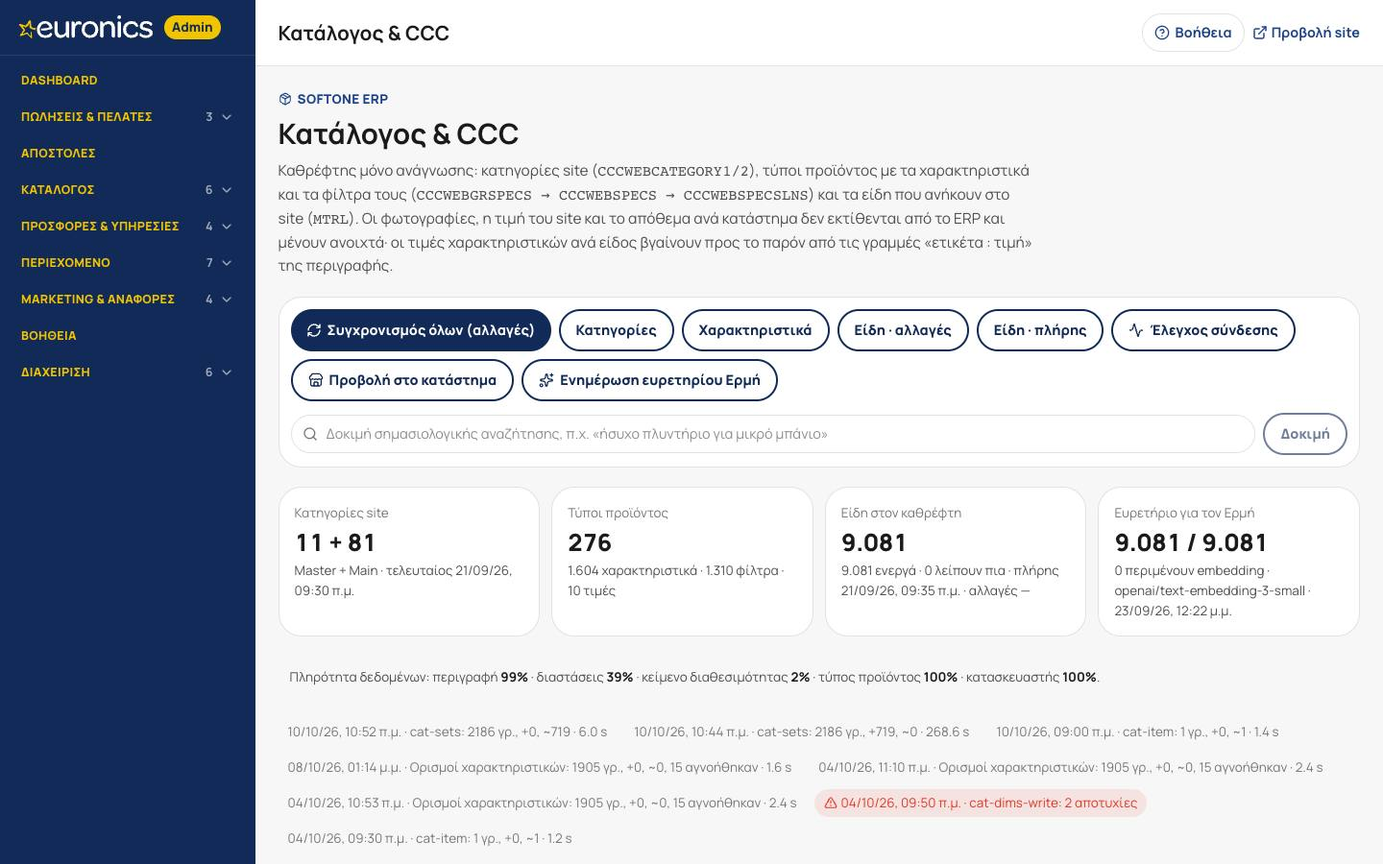
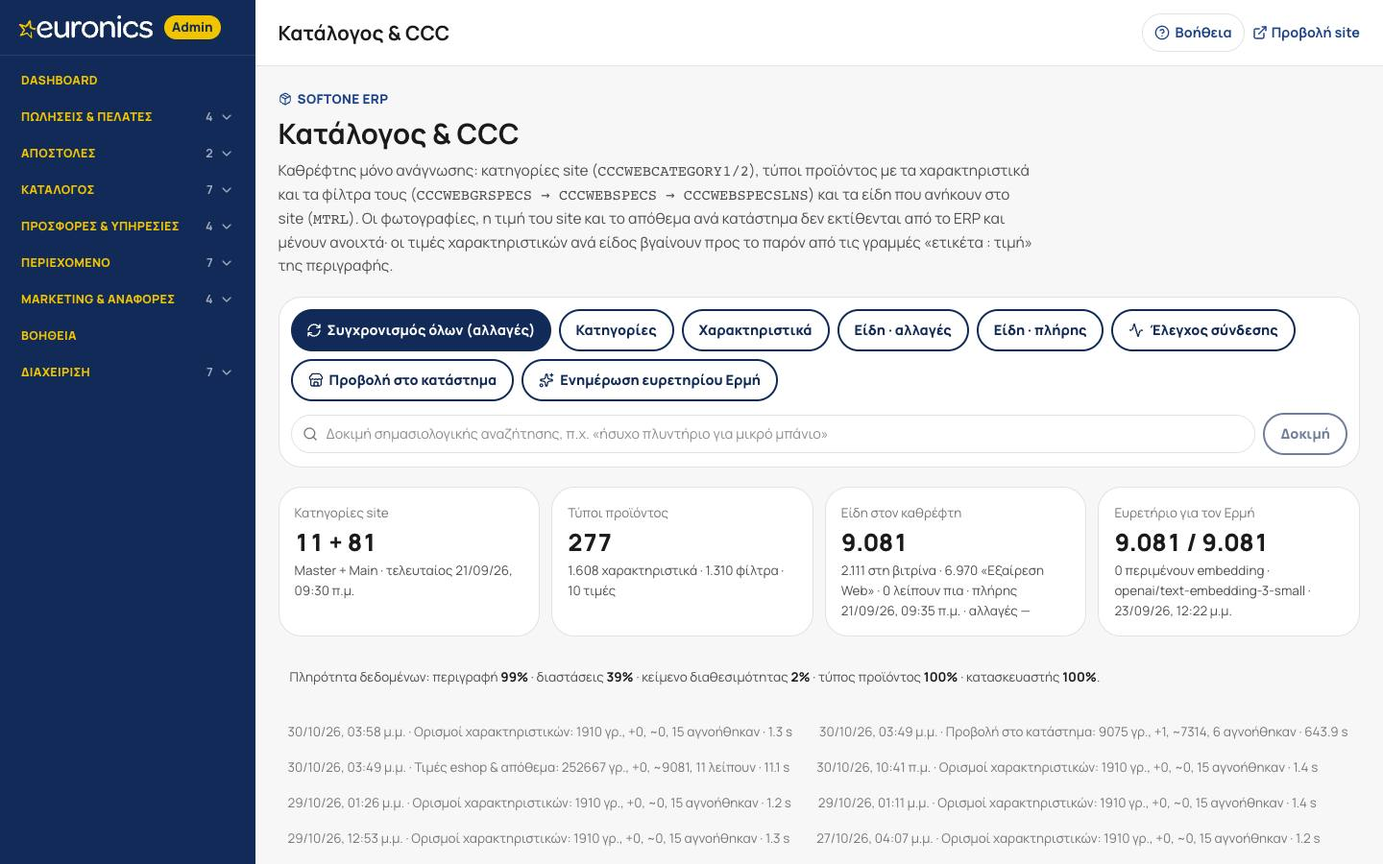
Κατάλογος: στη βιτρίνα μόνο τα είδη χωρίς «Εξαίρεση Web»
Το SoftOne σημαδεύει με MTREXTRA.BOOL04 («Εξαίρεση Web») τα είδη που δεν
ανεβαίνουν στο site. Ο καθρέφτης το αγνοούσε, οπότε το κατάστημα έδειχνε
9.081 είδη εκεί που το euronics.gr έχει ~2.100.

Η σημαία διαβάζεται τώρα στον συγχρονισμό (S1Item.webExcluded) και η
προβολή δίνει active μόνο σε ενεργό, υπαρκτό και μη εξαιρεμένο είδος.
Τίποτα δεν διαγράφεται: 6.970 προϊόντα έγιναν ανενεργά και επανέρχονται
μόνα τους αν βγει η εξαίρεση στο ERP.

diff --git a/lib/softone/catalog.ts b/lib/softone/catalog.ts
@@ -3,6 +3,7 @@ import { createHash } from "node:crypto";
 import { db } from "@/lib/db";
 import { s1 } from "@/lib/softone";
 import { getTable, friendlyError } from "@/lib/softone/lookups";
+import { EXTRA_OFFER_COLS, EXTRA_OFFER_FILTER, offersFromExtra } from "@/lib/softone/offers-core";
 
 /**
  * Συγχρονισμός καταλόγου SoftOne → καθρέφτης (S1WebCategory, S1SpecGroup,
@@ -220,14 +221,14 @@ export function syncItem(mtrl: number, trigger: Trigger = "manual") {
     const data = { ...m, specGroupS1Id: groupOk ? m.specGroupS1Id : null, missing: false, syncedAt: new Date() };
     const year = new Date().getFullYear();
     const [extra, bal] = await Promise.all([
-      getTable("MTREXTRA", ["MTRL", "NUM04", "DATE01", "BOOL01", "BOOL02"], `MTRL=${mtrl}`),
+      getTable("MTREXTRA", [...EXTRA_OFFER_COLS], `MTRL=${mtrl}`),
       getTable("MTRBALSHEET", ["MTRL", "WHOUSE", "IMPQTY1", "EXPQTY1"], `FISCPRD=${year} AND MTRL=${mtrl}`),
     ]);
     const e = extra.find((r) => int(r[0]) === mtrl);
     const w: Record<string, number> = {};
     for (const r of bal) if (int(r[0]) === mtrl) w[r[1]] = (w[r[1]] ?? 0) + (num(r[2]) ?? 0) - (num(r[3]) ?? 0);
     const offers = {
-      eshopPrice: e ? posNum(e[1]) : null, eshopDate01: e ? date(e[2]) : null, eshopFlag1: e ? yes(e[3]) : false, eshopFlag2: e ? yes(e[4]) : false,
+      ...offersFromExtra(e),
       stockCentral: CENTRAL_WAREHOUSES.reduce((a, k) => a + Math.max(0, w[k] ?? 0), 0),
       stockByWh: Object.fromEntries(Object.entries(w).filter(([, v]) => v > 0).map(([k, v]) => [k, Math.round(v * 100) / 100])),
       offersAt: new Date(),
@@ -256,9 +257,9 @@ export function syncOffers(trigger: Trigger = "manual") {
     const ids = (await db.s1Item.findMany({ where: { missing: false }, orderBy: { mtrl: "asc" }, select: { mtrl: true } })).map((i) => i.mtrl);
     if (!ids.length) return { fetched: 0, created: 0, updated: 0, missing: 0, skipped: 0 };
     const site = new Set(ids);
-    const extra = await getTable("MTREXTRA", ["MTRL", "NUM04", "DATE01", "BOOL01", "BOOL02"], "NUM04>0 OR BOOL01=1 OR BOOL02=1");
-    const price = new Map<number, { p: number | null; d: Date | null; f1: boolean; f2: boolean }>();
-    for (const r of extra) { const m = int(r[0]); if (m != null && site.has(m)) price.set(m, { p: posNum(r[1]), d: date(r[2]), f1: yes(r[3]), f2: yes(r[4]) }); }
+    const extra = await getTable("MTREXTRA", [...EXTRA_OFFER_COLS], EXTRA_OFFER_FILTER);
+    const marks = new Map<number, ReturnType<typeof offersFromExtra>>();
+    for (const r of extra) { const m = int(r[0]); if (m != null && site.has(m)) marks.set(m, offersFromExtra(r)); }
 
     const year = new Date().getFullYear();
     const bal = new Map<number, Record<string, number>>();
@@ -275,18 +276,18 @@ export function syncOffers(trigger: Trigger = "manual") {
     let updated = 0;
     for (let i = 0; i < ids.length; i += 1000) {
       const part = ids.slice(i, i + 1000);
-      const values = part.map((_, k) => `($${k * 7 + 1}::int, $${k * 7 + 2}::float8, $${k * 7 + 3}::timestamp, $${k * 7 + 4}::boolean, $${k * 7 + 5}::boolean, $${k * 7 + 6}::float8, $${k * 7 + 7}::jsonb)`).join(", ");
+      const values = part.map((_, k) => `($${k * 8 + 1}::int, $${k * 8 + 2}::float8, $${k * 8 + 3}::timestamp, $${k * 8 + 4}::boolean, $${k * 8 + 5}::boolean, $${k * 8 + 6}::boolean, $${k * 8 + 7}::float8, $${k * 8 + 8}::jsonb)`).join(", ");
       const params = part.flatMap((m) => {
-        const e = price.get(m), w = bal.get(m) ?? {};
+        const o = marks.get(m) ?? offersFromExtra(null), w = bal.get(m) ?? {};
         const positive = Object.fromEntries(Object.entries(w).filter(([, v]) => v > 0).map(([k, v]) => [k, Math.round(v * 100) / 100]));
         const central = CENTRAL_WAREHOUSES.reduce((a, k) => a + Math.max(0, w[k] ?? 0), 0);
-        return [m, e?.p ?? null, e?.d ?? null, e?.f1 ?? false, e?.f2 ?? false, central, JSON.stringify(positive)];
+        return [m, o.eshopPrice, o.eshopDate01, o.eshopFlag1, o.eshopFlag2, o.webExcluded, central, JSON.stringify(positive)];
       });
       updated += await db.$executeRawUnsafe(
-        `UPDATE "S1Item" s SET "eshopPrice" = v.p, "eshopDate01" = v.d, "eshopFlag1" = v.f1, "eshopFlag2" = v.f2, "stockCentral" = v.c, "stockByWh" = v.w, "offersAt" = $${part.length * 7 + 1}::timestamp
-         FROM (VALUES ${values}) AS v(m, p, d, f1, f2, c, w) WHERE s.mtrl = v.m`, ...params, now);
+        `UPDATE "S1Item" s SET "eshopPrice" = v.p, "eshopDate01" = v.d, "eshopFlag1" = v.f1, "eshopFlag2" = v.f2, "webExcluded" = v.x, "stockCentral" = v.c, "stockByWh" = v.w, "offersAt" = $${part.length * 8 + 1}::timestamp
+         FROM (VALUES ${values}) AS v(m, p, d, f1, f2, x, c, w) WHERE s.mtrl = v.m`, ...params, now);
     }
-    return { fetched, created: 0, updated, missing: ids.length - price.size, skipped: 0 };
+    return { fetched, created: 0, updated, missing: ids.length - marks.size, skipped: 0 };
   });
 }
 
@@ -307,13 +308,15 @@ export async function s1Alive(): Promise<{ ok: boolean; error?: string }> {
 }
 
 export async function catalogStats() {
-  const [cat1, cat2, groups, specs, filters, options, items, active, missing, withDesc, withDims, withAvail, withGroup, withBrand, states, runs] = await Promise.all([
+  const [cat1, cat2, groups, specs, filters, options, items, active, missing, excluded, withDesc, withDims, withAvail, withGroup, withBrand, states, runs] = await Promise.all([
     db.s1WebCategory.count({ where: { level: 1, missing: false } }), db.s1WebCategory.count({ where: { level: 2, missing: false } }),
     db.s1SpecGroup.count({ where: { missing: false } }), db.s1SpecDef.count({ where: { missing: false } }), db.s1SpecDef.count({ where: { missing: false, isFilter: true } }), db.s1SpecOption.count({ where: { missing: false } }),
-    db.s1Item.count(), db.s1Item.count({ where: { active: true, missing: false } }), db.s1Item.count({ where: { missing: true } }),
+    db.s1Item.count(), db.s1Item.count({ where: { active: true, missing: false, webExcluded: false } }), db.s1Item.count({ where: { missing: true } }),
+    // «Εξαίρεση Web» (MTREXTRA.BOOL04): είδη του ομίλου που δεν πουλιούνται online — μένουν στον καθρέφτη, έξω από τη βιτρίνα
+    db.s1Item.count({ where: { missing: false, webExcluded: true } }),
     db.s1Item.count({ where: { OR: [{ shortDesc: { not: null } }, { longDesc: { not: null } }] } }), db.s1Item.count({ where: { widthCm: { not: null }, heightCm: { not: null }, lengthCm: { not: null } } }),
     db.s1Item.count({ where: { availText: { not: null } } }), db.s1Item.count({ where: { specGroupS1Id: { not: null } } }), db.s1Item.count({ where: { manufacturerS1Id: { not: null } } }),
     db.s1SyncState.findMany(), db.s1SyncRun.findMany({ where: { kind: { startsWith: "cat-" } }, orderBy: { at: "desc" }, take: 8 }),
   ]);
-  return { cat1, cat2, groups, specs, filters, options, items, active, missing, withDesc, withDims, withAvail, withGroup, withBrand, states, runs };
+  return { cat1, cat2, groups, specs, filters, options, items, active, missing, excluded, withDesc, withDims, withAvail, withGroup, withBrand, states, runs };
 }

diff --git a/app/admin/(shell)/softone/catalog/page.tsx b/app/admin/(shell)/softone/catalog/page.tsx
@@ -25,7 +25,7 @@ export default async function CatalogPage({ searchParams }: { searchParams: Prom
   const page = Math.max(1, Number(p) || 1);
   const where = {
     ...(q ? { OR: [{ code: { contains: q, mode: "insensitive" as const } }, { name: { contains: q, mode: "insensitive" as const } }, { factoryCode: { contains: q, mode: "insensitive" as const } }, { barcode: { contains: q } }] } : {}),
-    ...(f === "nodesc" ? { shortDesc: null, longDesc: null } : f === "nodims" ? { OR: [{ widthCm: null }, { heightCm: null }, { lengthCm: null }] } : f === "nogroup" ? { specGroupS1Id: null } : f === "nobrand" ? { manufacturerS1Id: null } : f === "missing" ? { missing: true } : f === "inactive" ? { active: false } : {}),
+    ...(f === "nodesc" ? { shortDesc: null, longDesc: null } : f === "nodims" ? { OR: [{ widthCm: null }, { heightCm: null }, { lengthCm: null }] } : f === "nogroup" ? { specGroupS1Id: null } : f === "nobrand" ? { manufacturerS1Id: null } : f === "missing" ? { missing: true } : f === "inactive" ? { active: false } : f === "excluded" ? { webExcluded: true } : {}),
   };
   const [stats, vec, shop, tree, coverage, facetTotals, rows, total] = await Promise.all([
     catalogStats(), vectorStats(), projectionStats(),
@@ -58,7 +58,7 @@ export default async function CatalogPage({ searchParams }: { searchParams: Prom
         {[
           { t: "Κατηγορίες site", v: `${stats.cat1} + ${stats.cat2}`, s: `Master + Main · τελευταίος ${fmt(state("webcat")?.lastFullAt)}` },
           { t: "Τύποι προϊόντος", v: stats.groups.toLocaleString("el-GR"), s: `${stats.specs.toLocaleString("el-GR")} χαρακτηριστικά · ${stats.filters.toLocaleString("el-GR")} φίλτρα · ${stats.options.toLocaleString("el-GR")} τιμές` },
-          { t: "Είδη στον καθρέφτη", v: stats.items.toLocaleString("el-GR"), s: `${stats.active.toLocaleString("el-GR")} ενεργά · ${stats.missing.toLocaleString("el-GR")} λείπουν πια · πλήρης ${fmt(state("item")?.lastFullAt)} · αλλαγές ${fmt(state("item")?.lastDeltaAt)}` },
+          { t: "Είδη στον καθρέφτη", v: stats.items.toLocaleString("el-GR"), s: `${stats.active.toLocaleString("el-GR")} στη βιτρίνα · ${stats.excluded.toLocaleString("el-GR")} «Εξαίρεση Web» · ${stats.missing.toLocaleString("el-GR")} λείπουν πια · πλήρης ${fmt(state("item")?.lastFullAt)} · αλλαγές ${fmt(state("item")?.lastDeltaAt)}` },
           { t: "Ευρετήριο για τον Ερμή", v: `${vec.embedded.toLocaleString("el-GR")} / ${vec.total.toLocaleString("el-GR")}`, s: `${vec.stale.toLocaleString("el-GR")} περιμένουν embedding · ${vec.model} · ${fmt(vec.lastAt)}` },
         ].map((c) => (
           <div key={c.t} className="rounded-2xl bg-white border border-eu-line p-4 min-w-0">
@@ -139,7 +139,7 @@ export default async function CatalogPage({ searchParams }: { searchParams: Prom
           <h3 className="m-0 font-heading font-bold text-eu-ink text-[length:var(--fs-18)]">Είδη</h3>
           <form className="flex flex-wrap gap-2">
             <select name="f" defaultValue={f} aria-label="Φίλτρο" className="rounded-full border border-eu-line px-3 min-h-10 text-[length:var(--fs-14)] bg-white">
-              <option value="">Όλα</option><option value="nodesc">Χωρίς περιγραφή</option><option value="nodims">Χωρίς διαστάσεις</option><option value="nogroup">Χωρίς τύπο προϊόντος</option><option value="nobrand">Χωρίς κατασκευαστή</option><option value="inactive">Ανενεργά</option><option value="missing">Λείπουν πια από το SoftOne</option>
+              <option value="">Όλα</option><option value="nodesc">Χωρίς περιγραφή</option><option value="nodims">Χωρίς διαστάσεις</option><option value="nogroup">Χωρίς τύπο προϊόντος</option><option value="nobrand">Χωρίς κατασκευαστή</option><option value="inactive">Ανενεργά</option><option value="excluded">Εξαίρεση Web (εκτός site)</option><option value="missing">Λείπουν πια από το SoftOne</option>
             </select>
             <input name="q" defaultValue={q} placeholder="Κωδικός, όνομα, μοντέλο, barcode…" aria-label="Αναζήτηση" className="rounded-full border border-eu-line px-4 min-h-10 text-[length:var(--fs-14)] min-w-[260px]" />
             <button className="rounded-full bg-eu-navy text-white px-4 min-h-10 font-bold text-[length:var(--fs-14)]">Φίλτρο</button>
@@ -150,9 +150,9 @@ export default async function CatalogPage({ searchParams }: { searchParams: Prom
             <thead className="text-left text-eu-muted text-[length:var(--fs-13)]"><tr><th className="py-2 px-3">Κωδικός</th><th className="py-2 px-3">Είδος</th><th className="py-2 px-3">Τύπος προϊόντος</th><th className="py-2 px-3 text-right">Λιανική</th><th className="py-2 px-3">Διαστάσεις</th><th className="py-2 px-3">Διαθεσιμότητα</th><th className="py-2 px-3">Αλλαγή στο S1</th></tr></thead>
             <tbody>
               {rows.map((r) => (
-                <tr key={r.mtrl} className={`border-t border-eu-line align-top ${r.missing || !r.active ? "opacity-60" : ""}`}>
+                <tr key={r.mtrl} className={`border-t border-eu-line align-top ${r.missing || !r.active || r.webExcluded ? "opacity-60" : ""}`}>
                   <td className="py-2 px-3 font-mono whitespace-nowrap">{r.code}<div className="text-eu-muted text-[length:var(--fs-13)]">MTRL {r.mtrl}</div></td>
-                  <td className="py-2 px-3"><div className="font-bold text-eu-ink">{r.name}</div><div className="text-eu-muted text-[length:var(--fs-13)]">{[r.factoryCode, r.barcode].filter(Boolean).join(" · ") || "—"}{!r.active ? " · ανενεργό" : ""}{r.missing ? " · λείπει πια" : ""}</div></td>
+                  <td className="py-2 px-3"><div className="font-bold text-eu-ink">{r.name}</div><div className="text-eu-muted text-[length:var(--fs-13)]">{[r.factoryCode, r.barcode].filter(Boolean).join(" · ") || "—"}{!r.active ? " · ανενεργό" : ""}{r.webExcluded ? " · εκτός site (Εξαίρεση Web)" : ""}{r.missing ? " · λείπει πια" : ""}</div></td>
                   <td className="py-2 px-3 text-eu-ink-3">{r.specGroup?.name ?? "—"}</td>
                   <td className="py-2 px-3 text-right tabular-nums whitespace-nowrap">{r.priceRetail != null ? `${r.priceRetail.toLocaleString("el-GR", { minimumFractionDigits: 2 })} €` : "—"}</td>
                   <td className="py-2 px-3 tabular-nums whitespace-nowrap">{r.widthCm && r.heightCm && r.lengthCm ? `${r.widthCm} × ${r.heightCm} × ${r.lengthCm}` : "—"}</td>

diff --git a/lib/help/content/index.ts b/lib/help/content/index.ts
@@ -763,11 +763,17 @@ export const HELP_PAGES: HelpPage[] = [
   {
     route: "/admin/softone/catalog",
     title: "SoftOne · Κατάλογος & CCC",
-    summary: "Καθρέφτης μόνο ανάγνωσης του καταλόγου του SoftOne: κατηγορίες site (CCCWEBCATEGORY1/2), τύποι προϊόντων με τα χαρακτηριστικά τους (CCCWEBGRSPECS → CCCWEBSPECS → CCCWEBSPECSLNS) και τα είδη του site, με πληρότητα δεδομένων και κάλυψη φίλτρων. Από εδώ γίνεται και η «Προβολή στο κατάστημα».",
-    tasks: [{ title: "Περνάω στο κατάστημα ό,τι άλλαξε στο SoftOne", steps: ["Τρέξε συγχρονισμό καταλόγου.", "«Προβολή στο κατάστημα»: κατηγορίες, φίλτρα και προϊόντα ενημερώνονται.", "Δες την «Πληρότητα δεδομένων» για είδη χωρίς περιγραφή, διαστάσεις ή τύπο."] }],
-    tips: ["Τα χαρακτηριστικά και τα φίλτρα αλλάζουν από τη σελίδα «Χαρακτηριστικά»· εδώ μόνο φαίνονται."],
+    summary: "Καθρέφτης μόνο ανάγνωσης του καταλόγου του SoftOne: κατηγορίες site (CCCWEBCATEGORY1/2), τύποι προϊόντων με τα χαρακτηριστικά τους (CCCWEBGRSPECS → CCCWEBSPECS → CCCWEBSPECSLNS) και τα είδη του site, με πληρότητα δεδομένων και κάλυψη φίλτρων. Ο καθρέφτης κρατά όλα τα είδη· στη βιτρίνα μπαίνουν μόνο όσα ΔΕΝ έχουν «Εξαίρεση Web» στο SoftOne. Από εδώ γίνεται και η «Προβολή στο κατάστημα».",
+    tasks: [
+      { title: "Περνάω στο κατάστημα ό,τι άλλαξε στο SoftOne", steps: ["Τρέξε συγχρονισμό καταλόγου.", "«Προβολή στο κατάστημα»: κατηγορίες, φίλτρα και προϊόντα ενημερώνονται.", "Δες την «Πληρότητα δεδομένων» για είδη χωρίς περιγραφή, διαστάσεις ή τύπο."] },
+      { title: "Βλέπω ποια είδη δεν μπαίνουν στο site", steps: ["Στα «Είδη στον καθρέφτη» φαίνονται τρία νούμερα: στη βιτρίνα, «Εξαίρεση Web», λείπουν πια.", "Στη λίστα διάλεξε φίλτρο «Εξαίρεση Web (εκτός site)» για να τα δεις ένα προς ένα.", "Για να μπει ένα είδος στη βιτρίνα, βγάζει ο πελάτης την «Εξαίρεση Web» στο SoftOne (πρόσθετα πεδία είδους) — εμείς δεν τη γράφουμε."] },
+    ],
+    tips: [
+      "Τα χαρακτηριστικά και τα φίλτρα αλλάζουν από τη σελίδα «Χαρακτηριστικά»· εδώ μόνο φαίνονται.",
+      "«Εξαίρεση Web» = το πεδίο BOOL04 των πρόσθετων πεδίων του είδους στο SoftOne. Είναι η σημαία της βιτρίνας: ~7.000 είδη του ομίλου δεν πουλιούνται online και μένουν στον καθρέφτη ως ανενεργά προϊόντα — δεν διαγράφονται ποτέ.",
+    ],
     related: [{ label: "Χαρακτηριστικά", href: "/admin/catalog/specs" }, { label: "Συγχρονισμοί", href: "/admin/softone/sync" }],
-    keywords: ["softone", "κατάλογος", "ccc", "καθρέφτης", "κάλυψη φίλτρων"],
+    keywords: ["softone", "κατάλογος", "ccc", "καθρέφτης", "κάλυψη φίλτρων", "εξαίρεση web", "bool04", "εκτός site"],
   },
   {
     route: "/admin/softone/customers",

diff --git a/lib/softone/offers-core.ts b/lib/softone/offers-core.ts
@@ -1,0 +1,42 @@
+/**
+ * **Τι από τα πρόσθετα πεδία του είδους (`MTREXTRA`) ορίζει τη βιτρίνα** — καθαρές συναρτήσεις, χωρίς δίκτυο και βάση.
+ *
+ * Οι λεζάντες διαβάστηκαν από το ERP (`getTableFields ITEM / ITEEXTRA`, 30/10/2026):
+ * `NUM04` «Τιμή Web», `BOOL01` «Λίστα», `BOOL02` «B2B», **`BOOL04` «Εξαίρεση Web»**. Το `BOOL04` είναι η σημαία του site:
+ * `1` = το είδος δεν ανεβαίνει. Επαληθεύτηκε απέναντι στο sitemap του euronics.gr — 90 % των `BOOL04=0` υπάρχουν εκεί,
+ * μόνο 9 % των `BOOL04=1`. Βλ. docs/softone-catalog-sync.md §7.
+ */
+
+export const EXTRA_OFFER_COLS = ["MTRL", "NUM04", "DATE01", "BOOL01", "BOOL02", "BOOL04"] as const;
+
+/**
+ * Ποιες γραμμές του `MTREXTRA` μας ενδιαφέρουν. Το `BOOL04=1` είναι μέσα επίτηδες: αν έλειπε, τα εξαιρεμένα είδη χωρίς
+ * τιμή δεν θα γύρναγαν καθόλου και θα τα περνούσαμε για «χωρίς σήμανση», δηλαδή ζωντανά.
+ */
+export const EXTRA_OFFER_FILTER = "NUM04>0 OR BOOL01=1 OR BOOL02=1 OR BOOL04=1";
+
+export interface Offers {
+  eshopPrice: number | null;
+  eshopDate01: Date | null;
+  eshopFlag1: boolean;
+  eshopFlag2: boolean;
+  webExcluded: boolean;
+}
+
+const num = (v: string) => { const n = parseFloat(String(v ?? "").replace(",", ".")); return Number.isFinite(n) ? n : null; };
+const posNum = (v: string) => { const n = num(v); return n && n > 0 ? n : null; };
+const yes = (v: string) => v === "1" || /^true$/i.test(v ?? "");
+const date = (v: string) => { if (!v) return null; const d = new Date(String(v).replace(" ", "T")); return Number.isNaN(d.getTime()) ? null : d; };
+
+/** Η γραμμή όπως τη δίνει το `GetTable` με τις `EXTRA_OFFER_COLS`. `null` = το είδος δεν έχει γραμμή: τίποτα σημαδεμένο. */
+export function offersFromExtra(row: string[] | null | undefined): Offers {
+  if (!row) return { eshopPrice: null, eshopDate01: null, eshopFlag1: false, eshopFlag2: false, webExcluded: false };
+  const at = (n: (typeof EXTRA_OFFER_COLS)[number]) => row[EXTRA_OFFER_COLS.indexOf(n)] ?? "";
+  return {
+    eshopPrice: posNum(at("NUM04")), eshopDate01: date(at("DATE01")),
+    eshopFlag1: yes(at("BOOL01")), eshopFlag2: yes(at("BOOL02")), webExcluded: yes(at("BOOL04")),
+  };
+}
+
+/** Μπαίνει το είδος στη βιτρίνα; Ενεργό στο ERP, υπαρκτό στον καθρέφτη και χωρίς «Εξαίρεση Web». */
+export const onSite = (it: { active: boolean; missing: boolean; webExcluded: boolean }) => it.active && !it.missing && !it.webExcluded;

diff --git a/lib/softone/offers-core.test.ts b/lib/softone/offers-core.test.ts
@@ -1,0 +1,31 @@
+import { test } from "node:test";
+import assert from "node:assert/strict";
+import { EXTRA_OFFER_COLS, EXTRA_OFFER_FILTER, offersFromExtra, onSite } from "./offers-core";
+
+test("οι στήλες και το φίλτρο του MTREXTRA περιλαμβάνουν την «Εξαίρεση Web»", () => {
+  assert.deepEqual([...EXTRA_OFFER_COLS], ["MTRL", "NUM04", "DATE01", "BOOL01", "BOOL02", "BOOL04"]);
+  // το φίλτρο πρέπει να φέρνει και τα εξαιρεμένα, αλλιώς θα φαίνονταν «χωρίς σήμανση»
+  assert.match(EXTRA_OFFER_FILTER, /BOOL04=1/);
+});
+
+test("γραμμή MTREXTRA → τιμή, ημερομηνία, σημάνσεις", () => {
+  assert.deepEqual(offersFromExtra(["142368", "549,00", "2026-03-17 11:50:36", "1", "0", "0"]), {
+    eshopPrice: 549, eshopDate01: new Date("2026-03-17T11:50:36"), eshopFlag1: true, eshopFlag2: false, webExcluded: false,
+  });
+});
+
+test("«Εξαίρεση Web» = 1 → το είδος είναι εκτός site", () => {
+  assert.equal(offersFromExtra(["1", "0", "", "0", "0", "1"]).webExcluded, true);
+  assert.equal(offersFromExtra(["1", "0", "", "0", "0", "1"]).eshopPrice, null);
+});
+
+test("είδος χωρίς γραμμή MTREXTRA δεν θεωρείται εξαιρεμένο", () => {
+  assert.deepEqual(offersFromExtra(null), { eshopPrice: null, eshopDate01: null, eshopFlag1: false, eshopFlag2: false, webExcluded: false });
+});
+
+test("στη βιτρίνα μπαίνει μόνο ενεργό, υπαρκτό και μη εξαιρεμένο είδος", () => {
+  assert.equal(onSite({ active: true, missing: false, webExcluded: false }), true);
+  assert.equal(onSite({ active: true, missing: false, webExcluded: true }), false);
+  assert.equal(onSite({ active: false, missing: false, webExcluded: false }), false);
+  assert.equal(onSite({ active: true, missing: true, webExcluded: false }), false);
+});

diff --git a/lib/softone/project.ts b/lib/softone/project.ts
@@ -7,6 +7,7 @@ import { slugify } from "@/lib/slug";
 import { logged, type Trigger } from "@/lib/softone/catalog";
 import { parseDescription, energyFromSpecs } from "@/lib/softone/describe";
 import { resolveFacets, type FacetValue } from "@/lib/softone/facet-values";
+import { onSite } from "@/lib/softone/offers-core";
 import { associateImages, type AssociateResult } from "@/lib/catalog/image-import";
 import { projectDimensions } from "@/lib/catalog/product-dimensions";
 import { resetCatalogCache } from "@/lib/data/db-catalog";
@@ -206,7 +207,7 @@ async function projectProducts(idOf: Map<string, string>, only?: number) {
         title, ean: it.barcode?.trim() || null, brandId: brand.id, categoryId,
         summary: it.shortDesc ? clean(it.shortDesc) : null, description: parsed.text || null,
         highlights: parsed.highlights.length ? parsed.highlights : undefined,
-        vatRate: vatOf.get(String(it.vatS1Id ?? "")) ?? 24, active: it.active && !it.missing,
+        vatRate: vatOf.get(String(it.vatS1Id ?? "")) ?? 24, active: onSite(it),
       };
       const s1Hash = sha([PROJECT_VERSION, data, parsed.specs]);
       const e = byErp.get(erpCode);

diff --git a/scripts/apply-web-excluded.ts b/scripts/apply-web-excluded.ts
@@ -1,0 +1,18 @@
+/**
+ * «Εξαίρεση Web» (MTREXTRA.BOOL04) στον καθρέφτη των ειδών. Μόνο προσθήκες, ξανατρέχει χωρίς σφάλμα. Σύνδεση: DIRECT_URL.
+ *   npx tsx scripts/apply-web-excluded.ts
+ */
+import "dotenv/config";
+import { PrismaClient } from "@prisma/client";
+
+const db = new PrismaClient({ datasources: { db: { url: process.env.DIRECT_URL || process.env.DATABASE_URL } } });
+const SQL = [
+  `ALTER TABLE "S1Item" ADD COLUMN IF NOT EXISTS "webExcluded" BOOLEAN NOT NULL DEFAULT false`,
+  `CREATE INDEX IF NOT EXISTS "S1Item_webExcluded_idx" ON "S1Item"("webExcluded")`,
+];
+(async () => {
+  const before = await db.$queryRawUnsafe<{ n: bigint }[]>(`SELECT count(*) n FROM information_schema.columns WHERE table_name = 'S1Item' AND column_name = 'webExcluded'`);
+  for (const q of SQL) await db.$executeRawUnsafe(q);
+  console.log(Number(before[0].n) ? "Στήλη: υπήρχε ήδη." : "Στήλη: εφαρμόστηκε.");
+  await db.$disconnect();
+})().catch(async (e) => { console.error(e instanceof Error ? e.message : e); await db.$disconnect(); process.exit(1); });

diff --git a/docs/softone-catalog-sync.md b/docs/softone-catalog-sync.md
@@ -122,7 +122,7 @@
 **Τι σημαίνουν αυτά:**
 - Η ταξινόμηση και τα κείμενα είναι σε πολύ καλή κατάσταση — αρκούν για κατάλογο και για τον Ερμή.
 - **Η τιμή του site δεν βρίσκεται στην καρτέλα του είδους.** Έρχεται από τιμοκατάλογο / εμπορική πολιτική ή από το `iSite` — το ίδιο και το απόθεμα ανά κατάστημα. Είναι η πρώτη ερώτηση προς τον πελάτη· χωρίς αυτήν τα φίλτρα τιμής του ευρετηρίου μένουν ανενεργά.
-- Όλα τα είδη είναι `ISACTIVE=1`, ακόμη και όσα δεν έχουν αλλάξει από το 2024 και πριν (4.758). Το «ζωντανό στο site» ορίζεται αλλού (πιθανότατα απόθεμα ή σημαία που χειρίζεται το `UpdateWebItems`) — δεύτερη ερώτηση.
+- Όλα τα είδη είναι `ISACTIVE=1`, ακόμη και όσα δεν έχουν αλλάξει από το 2024 και πριν (4.758). Το «ζωντανό στο site» ορίζεται από το `MTREXTRA.BOOL04` — βλ. §7.
 - Οι διαστάσεις για το AR συνεχίζουν να έρχονται από χαρακτηριστικά / EPREL / κατηγορία· το SoftOne δεν τις έχει.
 - Ο κωδικός μοντέλου του κατασκευαστή υπάρχει μόνο μέσα στο όνομα — γι' αυτό το ταίριασμα με το EPREL και η αναζήτηση κωδικού διαβάζουν το όνομα.
 
@@ -142,4 +142,31 @@
 
 **Αποτέλεσμα:** 8.296 είδη με τιμή eshop (91 %), 1.045 με απόθεμα στην κεντρική αποθήκη (35.890 τεμάχια), 991 και με τα δύο. Κάλυψη τιμής: Computing 100 %, Τηλεφωνία 99 %, Κλιματισμός 94 %, Οικιακός Εξοπλισμός 92 %, Λευκές Συσκευές 89 %, Εικόνα & Ήχος 85 %, Προσωπική Φροντίδα 84 %.
 
-**Ανοιχτά προς τον πελάτη:** (α) τι σημαίνουν τα `MTREXTRA.DATE01` (1.179 είδη), `BOOL01` (758), `BOOL02` (55) — πιθανότατα ημερομηνία τιμής / προσφορά / νέο· (β) αν οι αποθήκες 56, 59, 100, 11, 16… (αποθήκες προμηθευτών, με θετικά υπόλοιπα σε δεκάδες είδη) μετράνε ως «διαθέσιμο σε Χ ημέρες»· (γ) πού ζει η **προηγούμενη τιμή** (για εκπτώσεις)· (δ) απόθεμα ανά κατάστημα-μέλος δεν υπάρχει σε αυτό το ERP — είναι η αποθήκη του ομίλου.
+**Ανοιχτά προς τον πελάτη:** (α) τι σημαίνει το `MTREXTRA.DATE01` (1.179 είδη, λεζάντα «Ημερομηνία 1» — χωρίς νόημα στο ERP)· (β) αν οι αποθήκες 56, 59, 100, 11, 16… (αποθήκες προμηθευτών, με θετικά υπόλοιπα σε δεκάδες είδη) μετράνε ως «διαθέσιμο σε Χ ημέρες»· (γ) πού ζει η **προηγούμενη τιμή** (για εκπτώσεις)· (δ) απόθεμα ανά κατάστημα-μέλος δεν υπάρχει σε αυτό το ERP — είναι η αποθήκη του ομίλου.
+
+## 7. Ποια είδη ανήκουν στο site — `MTREXTRA.BOOL04` «Εξαίρεση Web» (30/10/2026)
+
+Οι λεζάντες των πρόσθετων πεδίων του είδους (`getTableFields ITEM / ITEEXTRA`) λύνουν την ανοιχτή ερώτηση της §5:
+
+| Πεδίο | Λεζάντα στο ERP | Τι σημαίνει για μας |
+|---|---|---|
+| `BOOL04` | **Εξαίρεση Web** | `1` = το είδος **δεν** ανεβαίνει στο site. Η σημαία του site. |
+| `SOESHOP` | **Ενεργό σε e-Shop** (επιλογή `$soeshop`, όχι ναι/όχι) | τιμή `3` σε 793 ενεργά είδη, `4` σε 1, `0` σε 46, **κενό στα υπόλοιπα 8.242** — δευτερεύουσα σήμανση, δεν ορίζει τη βιτρίνα |
+| `BOOL01` | Λίστα | 776 είδη — εσωτερική λίστα, όχι web |
+| `BOOL02` | B2B | 64 είδη |
+| `BOOL03` | Αποκλεισ/τα | 56 είδη |
+| `NUM03` | **Αρχική Τιμή Web** | η «προηγούμενη τιμή» του ερωτήματος (γ) — συμπληρωμένη μόνο σε 6 είδη, άρα άχρηστη σήμερα |
+| `NUM04` | Τιμή Web | η τιμή της βιτρίνας (§6) |
+| `VARCHAR01` / `VARCHAR02` | Παλαιός Κωδικός / Θέση | — |
+| `NUM01` / `NUM02` | Κολώνες / Συσκευασία | — |
+
+**Επαλήθευση απέναντι στο ζωντανό site** (sitemap του euronics.gr, 2.478 URL): από τα 2.099 ενεργά είδη με `BOOL04=0` και τιμή web, **90 %** του δείγματος βρίσκεται στο sitemap· από τα 6.197 με `BOOL04=1`, μόνο **9 %** (και αυτά από σύμπτωση κωδικού μοντέλου). Δηλαδή το site ≈ `BOOL04=0`, ~2.100 προϊόντα.
+
+**Τι άλλαξε στη λογική μας (30/10/2026).** Το `BOOL04` δεν μπορεί να μπει στο `WEB_FILTER`: το φίλτρο του `GetTable` τρέχει πάνω στον `MTRL`, ενώ η σημαία ζει στον `MTREXTRA`. Οπότε:
+
+- `lib/softone/offers-core.ts` (νέο, με tests): οι στήλες και το φίλτρο του `MTREXTRA`, η ανάγνωση της γραμμής και ο κανόνας `onSite = active && !missing && !webExcluded`. Το φίλτρο έγινε `NUM04>0 OR BOOL01=1 OR BOOL02=1 OR BOOL04=1` — **το `BOOL04=1` είναι μέσα επίτηδες**, αλλιώς τα εξαιρεμένα χωρίς τιμή δεν θα γύρναγαν καθόλου και θα περνούσαν για «χωρίς σήμανση», δηλαδή ζωντανά.
+- `S1Item.webExcluded`: νέα στήλη, γεμίζει στον `syncOffers` και στον `syncItem` (`scripts/apply-web-excluded.ts`).
+- Η προβολή (`projectProducts`) δίνει `active: onSite(it)`. Το προϊόν **δεν διαγράφεται**: γίνεται ανενεργό, κρατά slug, κριτικές και παραγγελίες, και επανέρχεται μόνο του αν ο πελάτης βγάλει την «Εξαίρεση Web» στο ERP. Τα σετ ακολουθούν, γιατί το `projectSetProducts` κοιτάζει το `active` του κύριου προϊόντος.
+- Η σελίδα «SoftOne · Κατάλογος & CCC» δείχνει τα τρία νούμερα (στη βιτρίνα / «Εξαίρεση Web» / λείπουν πια) και έχει φίλτρο «Εξαίρεση Web (εκτός site)».
+
+Αποτέλεσμα του πρώτου τρεξίματος: **2.111 είδη στη βιτρίνα, 6.970 εκτός** — ο καθρέφτης κρατά και τα δύο.

diff --git a/docs/softone-custom-schema.md b/docs/softone-custom-schema.md
@@ -14,7 +14,34 @@
 
 **Λοιπά.** `CUSTOMER` / `SUPPLIER`: `CCCGLN` (και σε υποκαταστήματα), `CCCNAMETWO`, εκτυπωτές/φόρμες κιβωτίου και παλέτας — logistics B2B, όχι καταναλωτής. `SOCARRIER`: `CCCGROUP`, `CCCORDER` (ομάδα και σειρά παράδοσης μεταφορέα). `VAT.CCCVAT`: κωδικός integration. `CCCPAYMENTS`: αναφορά πληρωμών ανά πελάτη/είδος προμηθευτή. `CCCCREDITCONTROL`: λίστα κατηγοριών πιστωτικού ελέγχου. Το `INST` (εγκαταστάσεις/εγγυήσεις) δεν διαβάζεται: ο web λογαριασμός δεν έχει δικαίωμα.
 
-**Advanced JavaScript στην εγκατάσταση (15):** `ConvertDlgJS`, `CrtSaldocJs`, `iDealers`, `iSite`, `ITEDOCjs`, `ITEMJS`, `JSMain`, `jsRetailDoc`, `PurdocJs`, `RetaildocJSCode`, `S1_CccImpSalCsv`, `S1_Custom`, `S1_E-INV`, `SOCALLCode`, `UpdateWebItems`. Ζουν στον `CSTINFO` (τύπος 16, κώδικας στη δυαδική στήλη `SODATA`) και δεν διαβάζονται με τις επίσημες υπηρεσίες· χρειάζεται εξαγωγή από τον SoftOne client.
+**Advanced JavaScript στην εγκατάσταση (15):** ζουν στον `CSTINFO` με `CSTTYPE=16` (επιβεβαιωμένο: `GetTable CSTINFO` με `CSTINFO,CSTTYPE,CSTNAME,NAME,UPDUSERNAME,SOUPDDATE`). Ο **κώδικας** είναι στη δυαδική `SODATA` και **δεν διαβάζεται**: `SODATA` → «Access violation in XDll.dll», `CSTDATA` → «Ole exception». Χρειάζεται εξαγωγή από τον SoftOne client.
+
+| Object | Τελευταία αλλαγή | Χρήστης | Αφορά |
+|---|---|---|---|
+| `iSite` | 2026-06-24 | Service | **περιεχόμενο προϊόντων για το site** (κατηγορίες, χαρακτηριστικά, φωτογραφίες) |
+| `UpdateWebItems` | 2026-03-17 | Service | **ενημέρωση των ειδών του web** (τιμή, διαθεσιμότητα, σήμανση) |
+| `ITEMJS` | 2023-11-15 | Service | η φόρμα του είδους στο ERP |
+| `JSMain` | 2026-07-02 | Service | γενικό |
+| `S1_Custom` | 2024-02-29 | Service | γενικό |
+| `SOCALLCode` | 2026-07-02 | Service | τηλεφωνικό κέντρο |
+| `S1_E-INV` | 2026-02-02 | Service | ηλεκτρονική τιμολόγηση |
+| `S1_CccImpSalCsv` | 2025-11-27 | Service | εισαγωγή πωλήσεων από CSV |
+| `PurdocJs` · `ITEDOCjs` · `ConvertDlgJS` · `CrtSaldocJs` · `jsRetailDoc` · `RetaildocJSCode` · `iDealers` | 2020–2026 | — | παραστατικά / λιανική / dealers |
+
+Στο ίδιο σενάριο ανήκουν και λίστες/φόρμες του ERP με το ίδιο όνομα: `VITEM` «iSite» (#753), «iSite NEW» (#964), «iSite(Fast Report)» (#1014/#1015), «iSite (Panos)» (#1147) και η φόρμα `ITEM` «Προβολή iSite» (#707) — `getBrowserInfo` σε αυτές κάνει timeout, δεν τις τρέχουμε. Υπάρχει και εγγραφή `CSTTYPE=97` «Sem Web Item».
+
+### Πρόσθετα πεδία είδους (`ITEEXTRA` / `MTREXTRA`) — δεν είναι CCC, αλλά εδώ ζει η λογική του e-shop
+
+| Πεδίο | Λεζάντα | Τι κρατά |
+|---|---|---|
+| `BOOL04` | Εξαίρεση Web | **1 = έξω από το site** (η σημαία της βιτρίνας· βλ. softone-catalog-sync.md §7) |
+| `SOESHOP` | Ενεργό σε e-Shop | επιλογή `$soeshop` (τιμές 0/3/4), δευτερεύουσα |
+| `NUM04` / `NUM03` | Τιμή Web / Αρχική Τιμή Web | τιμή βιτρίνας· η «αρχική» σε 6 μόνο είδη |
+| `BOOL01` / `BOOL02` / `BOOL03` | Λίστα / B2B / Αποκλεισ/τα | εσωτερικές σημάνσεις |
+| `VARCHAR01`…`05` | Παλαιός Κωδικός, Θέση, Παρατηρήσεις, Κείμενο 4/5 | — |
+| `NUM01` / `NUM02` | Κολώνες / Συσκευασία | — |
+| `UTBL05` | Κατ.Φόρου Ανακ. | — |
+| `DATE01`…`05` | Ημερομηνία 1…5 | χωρίς νόημα στο ERP |
 
 ## 1. Custom αντικείμενα και πίνακες
 
